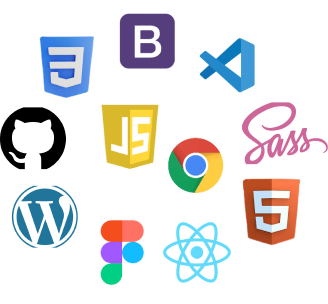
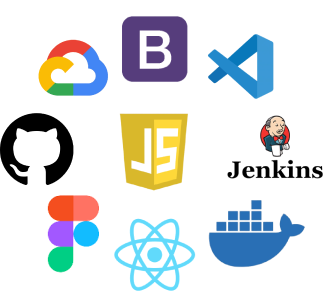
updated the README file

diff --git a/index.html b/index.html
@@ -58,11 +58,9 @@
                   <a class="nav-link" href="#about">About</a>
                 </li>
                 <li class="nav-item mx-3">
-                  <a class="nav-link" href="#experience">Experience</a>
+                  <a class="nav-link" href="#certifications">Certifications</a>
                 </li>
-                <li class="nav-item mx-3">
-                  <a class="nav-link" href="#myprojects">My Projects</a>
-                </li>
+
                 <li class="nav-item mx-3">
                   <a class="nav-link" href="#contact">Contact</a>
                 </li>
@@ -72,23 +70,14 @@
         </nav>
       </div>
       <!-- nav section end -->
-      
- <!-- hero section start -->
-      <div class="container px-4 py-3">
+
+      <!-- hero section start -->
+      <div class="container px-4 py-5">
         <div class="row align-items-center g-5 py-1">
-          <div class="col-lg-8 col-md-8 col-sm-12 col-xs-12">
-            <h1
-              class="display-5 fw-bold lh-1 mb-3 d-xl-block d-lg-block d-md-none d-sm-block d-block"
-            >
-              Hi, I’m Opeyemi Bioku.
-            </h1>
-            <h2
-              class="lh-1 mb-3 d-xl-none d-lg-none d-md-block d-sm-none d-none"
-            >
-              Hi, I’m Opeyemi Bioku.
-            </h2>
-            <p class="lead">A Frontend Developer and UI/UX Designer.</p>
-            <div class="d-grid gap-2 d-md-flex justify-content-md-start">
+          <div class="col-12 text-center">
+            <h1 class="display-5 fw-bold lh-1 mb-3">Hi, I’m Opeyemi Bioku.</h1>
+            <p class="lead">A Web Developer/DevOps Engineer.</p>
+            <div class="d-grid gap-2 d-md-flex justify-content-md-center">
               <div class="icons">
                 <a
                   href="https://www.linkedin.com/in/opeyemi-bioku"
@@ -117,22 +106,14 @@
               </div>
             </div>
             <a
-              href="https://docs.google.com/document/d/1V6SxDkaX2RIHTCVkLT_osn_ZV_3Z0ApZ/edit?usp=sharing&ouid=118144934130455461753&rtpof=true&sd=true"
+              href="https://drive.google.com/file/d/1Wll30xvg_hEke_PyU-OzxzxLFqxAlIpZ/view?usp=drive_link"
+              target="_blank"
               class="btn btn-color btn-light mt-3"
               >RESUME</a
             >
           </div>
-          <div class="col-lg-4 col-md-4 d-none d-sm-none d-md-block d-lg-block">
-            <img
-              src="images/opeyemi.png"
-              class="d-block mx-lg-auto img-fluid"
-              alt=""
-            />
-          </div>
         </div>
       </div>
-
-     
     </div>
     <!-- hero section end -->
 
@@ -143,13 +124,16 @@
         <div class="col-lg-7 col-md-12 col-sm-12 mt-lg-4">
           <div class="card-body">
             <p class="card-text about-text">
-              A Frontend Developer, proficient in combining design and
-              programming to build interactive user interface from concept
-              through deployment in a responsive, mobile-first approach. I have
-              developed my skills in frontend technologies and in writing
-              well-documented and reusable codes. I am a dedicated and creative
-              individual with excellent interpersonal, communication, and
-              problem-solving skills.
+              A Web Developer and DevOps Engineer with expertise in both
+              front-end and back-end technologies. With hands-on experience in
+              cloud platforms such as Google Cloud Platform (GCP), I specialize
+              in automating infrastructure provisioning and implementing CI/CD
+              pipelines to streamline development workflows. My technical
+              proficiency spans across a wide array of tools and frameworks,
+              allowing me to build and maintain robust, scalable applications.
+              Passionate about optimizing performance and ensuring seamless
+              deployment processes, I strive to create efficient, high-quality
+              solutions that meet both business and user needs.
             </p>
           </div>
         </div>
@@ -165,66 +149,42 @@
 
     <!-- experience section start -->
     <div class="container-fluid"></div>
-    <div class="row mt-5 p-4 g-0 aboutSection" id="experience">
-      <div class="col-sm-6">
+    <div class="row mt-5 p-4 g-0 aboutSection" id="certifications">
+      <!-- Removed the Experience Section -->
+      <div class="col-sm-12">
         <div class="">
-          <div class="card-body">
-            <h4 class="card-title experience-text">EXPERIENCE</h4>
-            <p class="card-text experience-header">
-              (8thGear Partners Limited, Lagos, Nigeria.)
-            </p>
-            <p class="card-text experience-text">April 2021 - Present</p>
-            <p class="card-text experience-text">Frontend Developer</p>
-            <p class="card-text experience-text">Role</p>
-            <!-- <div class="vl ms-5"></div> -->
-            <ul class="list-group list-group-flush experience-sub-text">
-              <li class="ms-5">
-                Develop and maintain functional and interactive user interface
-                using frontend technologies.
-              </li>
-              <li class="ms-5 pt-1">
-                Work closely with designers and developers to meet project
-                requirements, fix bugs and implement new features.
-              </li>
-              <li class="ms-5 pt-1">
-                Manage and update existing web apps and websites to improve user
-                experience and web functionality.
-              </li>
-              <li class="ms-5 pt-1">
-                Optimize web apps and websites performance using modern web
-                standards and design.
-              </li>
-            </ul>
-          </div>
-        </div>
-      </div>
-      <div class="col-sm-6">
-        <div class="">
-          <div class="card-body">
+          <div class="card-body text-center">
+            <!-- Added text-center for centering the content -->
             <h4 class="card-title experience-text">CERTIFICATIONS</h4>
-            <ul class="list-group list-group-flush experience-sub-text">
-              <li class="ms-5">
-                B.Tech Science Laboratory Technology, LAUTECH (2019).
+            <ul
+              class="list-group list-group-flush experience-sub-text list-unstyled"
+            >
+              <!-- Added list-unstyled to remove bullet points -->
+              <li class="pt-1">
+                Stutern Graduate Accelerator (August 2023) -
+                <a
+                  href="https://drive.google.com/file/d/1FKJH3nZ34e7Ao_9zwD3EqBWwbIlOUNUD/view?usp=sharing"
+                  target="_blank"
+                  >View</a
+                >
               </li>
-              <li class="ms-5 pt-1">
-                NYSC discharge certificate (March,9 2021).
-              </li>
-              <li class="ms-5 pt-1">
-                Programming Foundations: Fundamentals, LinkedIn (Dec, 2020).
-              </li>
-              <li class="ms-5 pt-1">
-                Jobberman Soft-Skills Training (March 2021).
+              <li class="pt-1">
+                Innkeeper Talent Accelerator (July 2022) -
+                <a
+                  href="https://drive.google.com/file/d/1FIGCKsk5zeiICsVhs19vB_Ir-yU49ovw/view?usp=sharing"
+                  target="_blank"
+                  >View</a
+                >
               </li>
             </ul>
           </div>
         </div>
       </div>
     </div>
-
     <!-- experience section end -->
 
     <!-- tech section start -->
-    <div class="row justify-content-center pt-4 mt-5 mb-2 g-0">
+    <div class="row justify-content-center py-5 mt-3 mb-2 g-0">
       <div class="tech-section text-center col-md-8">
         <h3 class="tech-text mt-5">Technologies & Dev Tools</h3>
         <div class="d-flex justify-content-center pt-4">
@@ -233,112 +193,6 @@
       </div>
     </div>
     <!-- tech section end -->
-
-    <!-- my works section start -->
-    <div class="container pt-3" id="myprojects">
-      <div class="row">
-        <h3 class="card-title about-header my-5 text-center">My Projects</h3>
-        <div class="col-lg-6 col-md-6 col-sm-12 mb-5 px-5">
-          <div class="card myworks h-100">
-            <img
-              src="images/innkeeper2.jpg"
-              class="card-img-top myworksImage"
-              alt="..."
-            />
-            <div class="card-body">
-              <h6 class="card-title">
-                <b>E-Learning Providers.</b> <br /><br />Other Collaborators
-                (Adebanjo Adeniji, Chidinma Muoghalu, Omolounnu Oluwafemi,
-                Ovonlen Raphael
-              </h6>
-              <a href="https://innkeeper.work/" class="myworksBtn"
-                ><b>View Site</b></a
-              >
-            </div>
-          </div>
-        </div>
-        <div class="col-lg-6 col-md-6 col-sm-12 mb-5 px-5">
-          <div class="card myworks h-100">
-            <img
-              src="images/comfortable.jpg"
-              class="card-img-top myworksImage"
-              alt="..."
-            />
-            <div class="card-body">
-              <h6 class="card-title">
-                <b>ComforTable Food App Design</b> <br /><br />Other
-                Collaborators (Mustapha Olawale, Ojekunle Oluwaseun, Omolounnu
-                Oluwafemi, Olushola Tobiloba, Manu Nwaogu)
-              </h6>
-              <a
-                href="https://www.figma.com/proto/t7wS4amhDuoJIahCAQGRo8/Untitled?node-id=166%3A2&scaling=scale-down&page-id=0%3A1&starting-point-node-id=166%3A2&show-proto-sidebar=1"
-                class="myworksBtn"
-                ><b>View Site</b></a
-              >
-            </div>
-          </div>
-        </div>
-        <div class="col-lg-6 col-md-6 col-sm-12 mb-5 px-5">
-          <div class="card myworks">
-            <img
-              src="images/eightgear2.jpg"
-              class="card-img-top myworksImage"
-              alt="..."
-            />
-            <div class="card-body">
-              <h6 class="card-title">
-                <b>Venture Studio</b> [Growth as a Service, Managed Services,
-                Talent Pipeline Services]<br /><br />
-                Other Collaborators (Adebanjo Adeniji)
-              </h6>
-              <a href="https://www.8thgearpartners.com/" class=""
-                ><b>View Site</b></a
-              >
-            </div>
-          </div>
-        </div>
-        <div class="col-lg-6 col-md-6 col-sm-12 mb-5 px-5">
-          <div class="card myworks h-100">
-            <img
-              src="images/haven2.jpg"
-              class="card-img-top myworksImage"
-              alt="..."
-            />
-            <div class="card-body">
-              <h6 class="card-title">
-                <b
-                  >Multi-language and Technology Childhood Education
-                  Specialists</b
-                ><br /><br />
-                Other Collaborators (Adebanjo Adeniji)
-              </h6>
-              <a
-                href="https://www.figma.com/proto/zIh8hzyXO78PprdNNfW3pg/Haven-website-design?node-id=0%3A1&scaling=scale-down&page-id=0%3A1&starting-point-node-id=2%3A2"
-                class=""
-                ><b>View Site</b></a
-              >
-            </div>
-          </div>
-        </div>
-        <div class="col-lg-6 col-md-6 col-sm-12 mb-5 px-5 mx-auto">
-          <!-- mt-lg-5 mt-md-5 -->
-          <div class="card myworks h-100">
-            <img
-              src="images/myportfolio3.jpg"
-              class="card-img-top myworksImage"
-              alt="..."
-            />
-            <div class="card-body">
-              <h6 class="card-title">My Portfolio Website</h6>
-              <a href="https://opeyemibioku.github.io/Portfolio/" class=""
-                ><b>View Site</b></a
-              >
-            </div>
-          </div>
-        </div>
-      </div>
-    </div>
-    <!-- my works section end -->
 
     <!-- footer start -->
 
@@ -405,7 +259,7 @@
             <a class="navbar-brand" href="#"
               ><img src="images/OB.png" class="h-25 w-50" alt=""
             /></a>
-            <span class="text-muted">&copy; Copyright 2022</span>
+            <span class="text-muted">&copy; Copyright 2024</span>
           </div>
           <ul class="nav col-md-4 justify-content-end list-unstyled d-flex">
             <li class="ms-1">
